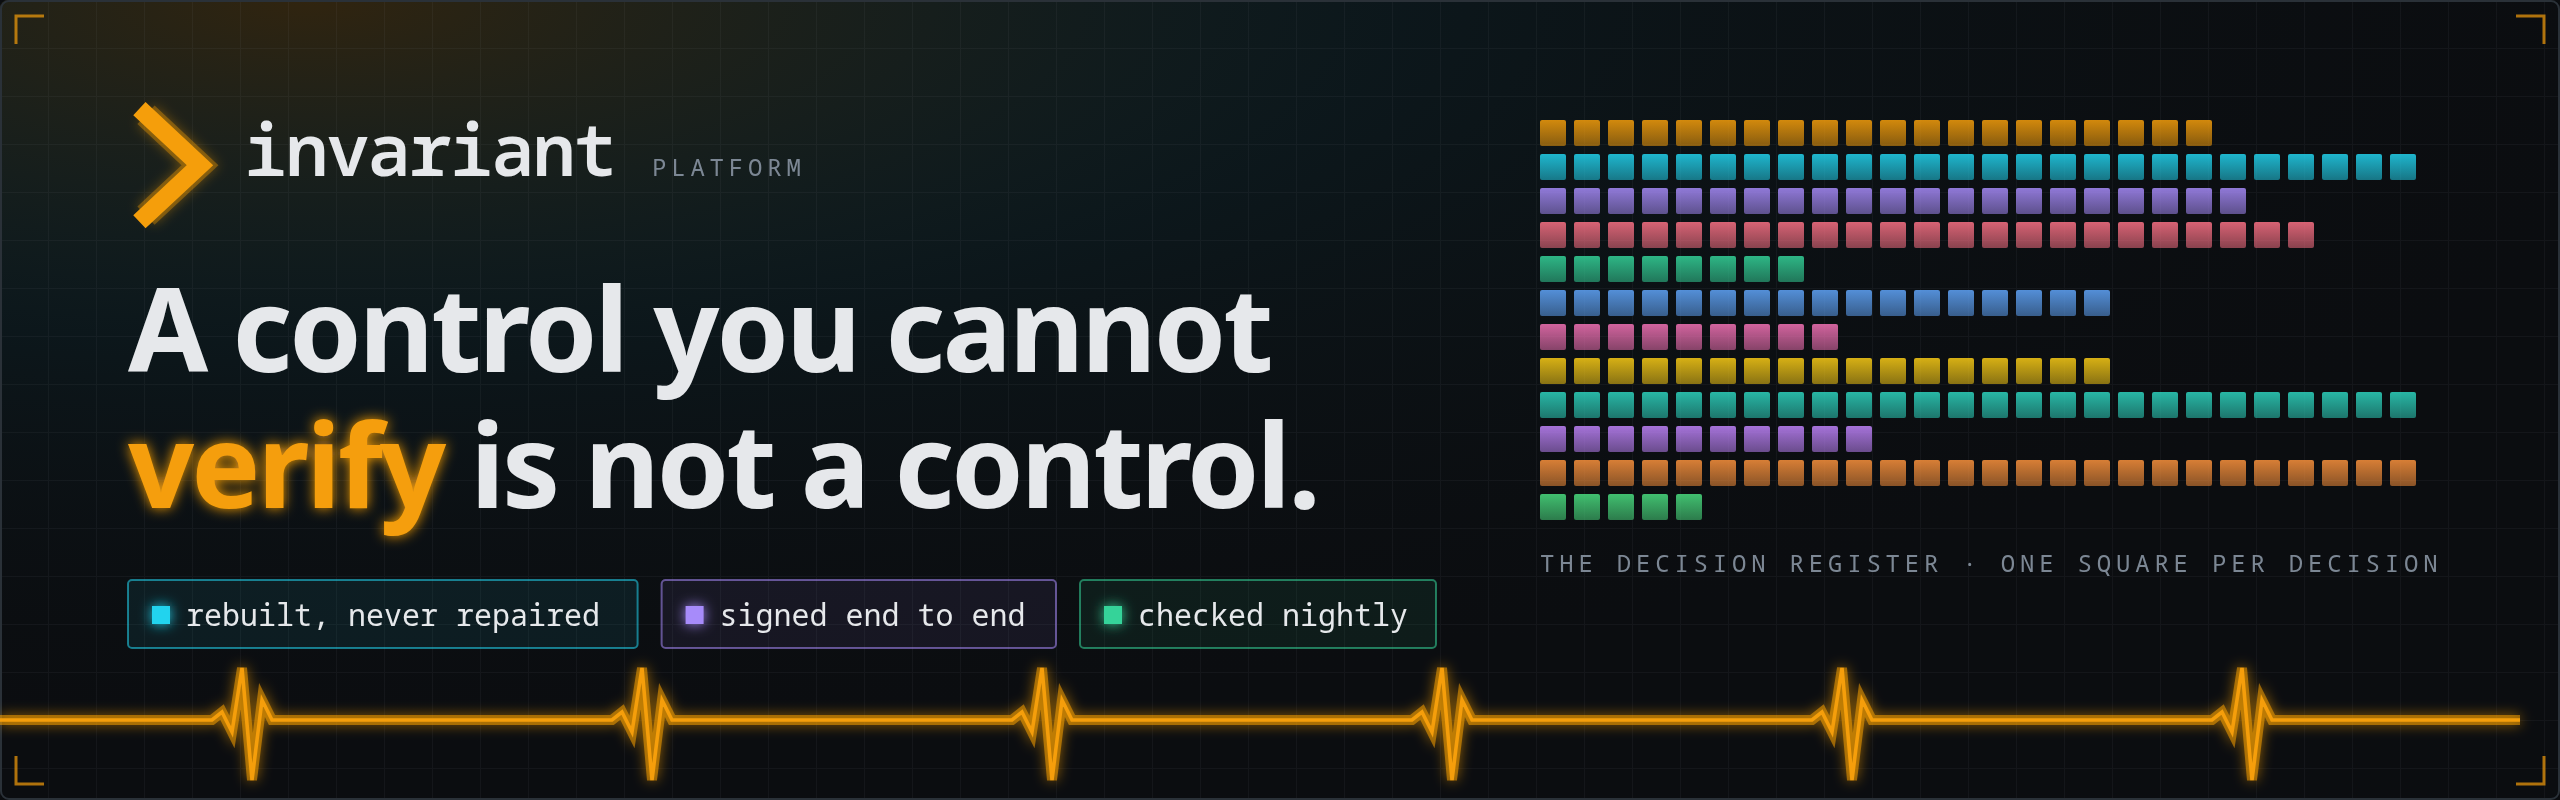
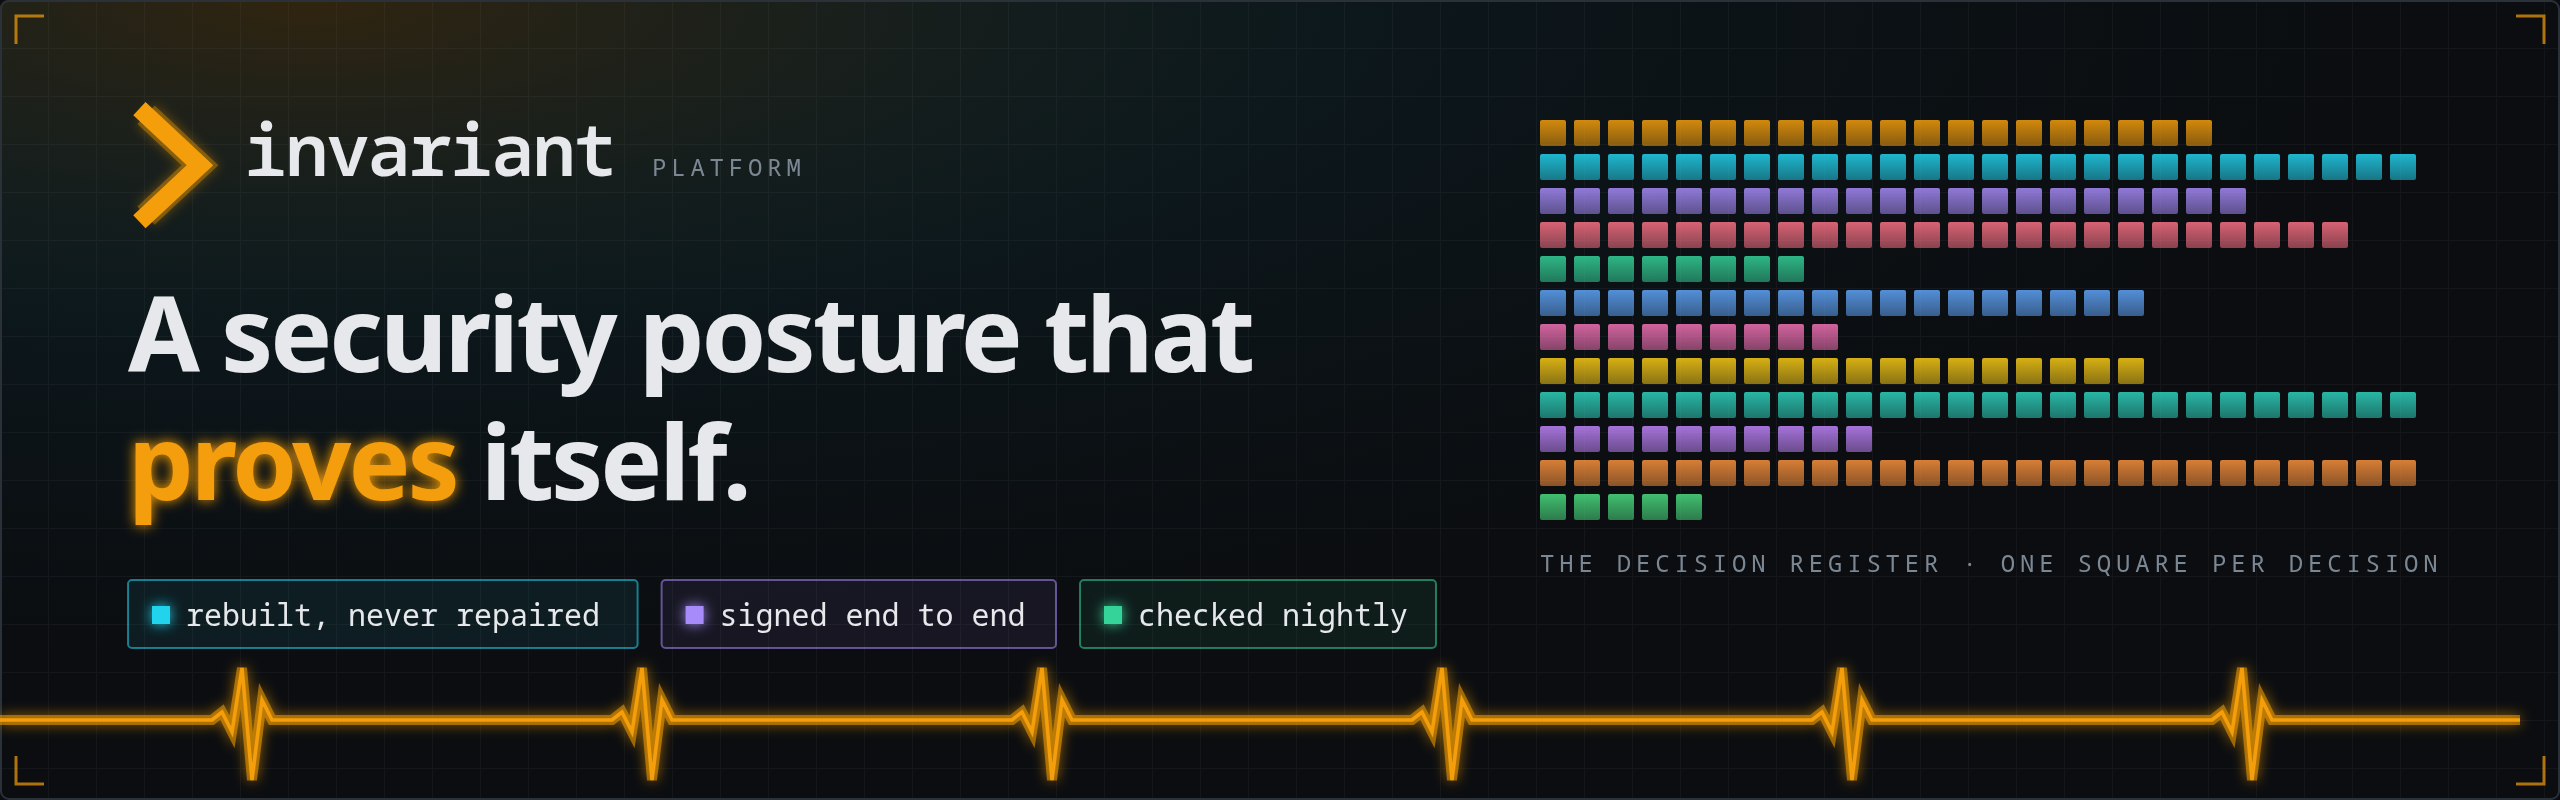
Profile: new headline and positioning, register from the site
Assisted-by: Claude Code

diff --git a/generate.py b/generate.py
@@ -3,8 +3,11 @@
     python3 generate.py          # writes profile/README.md and profile/assets/*.svg
 
 Standard library only. Every claim and number here is one the public site
-(invariant-platform.io) already makes; STATS and REGISTER are copied from its
-site.config.ts and must move with it. Nothing names a machine or an address.
+(invariant-platform.io) already makes. REGISTER is read from the site
+repository's content/register-shape.json (generated from the private index),
+and the decision total is its sum, so the two sites cannot disagree. There is
+no invariant count: only the live nightly run states one. Nothing names a
+machine or an address.
 
 The SVGs are shown by GitHub through <img>, so each one is self-contained:
 its own styles, no web fonts (system fallbacks), no script. Animations are
@@ -14,21 +17,21 @@ CSS, play once on load, and stop for readers who prefer reduced motion.
 from __future__ import annotations
 
 import html
+import json
 from pathlib import Path
 
 OUT = Path(__file__).resolve().parent / "profile"
 
 SITE = "https://invariant-platform.io"
-# From invariant-platform-site/site.config.ts (ADR-173: a number the platform
-# does not keep is a false claim). Update both together.
-STATS = [("210", "decisions", "numbered, never deleted"), ("19", "invariants", "re-asserted nightly"),
+# The register's shape, from the site repository (scripts/register-shape.mjs
+# there writes it). A missing file is an error, never a stale fallback.
+_SHAPE = Path(__file__).resolve().parent.parent / "invariant-platform-site" / "content" / "register-shape.json"
+REGISTER = [(c["name"], c["n"]) for c in json.loads(_SHAPE.read_text())]
+DECISION_COUNT = sum(n for _, n in REGISTER)
+# Kept by the platform and stated on the site (site.config.ts, ADR-173).
+STATS = [(str(DECISION_COUNT), "decisions", "numbered, never deleted"),
          ("7", "rebuilds", "from a declaration"), ("2", "restore drills", "passed, not assumed"),
          ("2", "failure domains", "and what survives each")]
-REGISTER = [("Topology and capacity", 20), ("Provisioning, roll and rebuild", 26), ("Networking and DNS", 21),
-            ("Security and admission", 23), ("Secrets and identity", 8), ("Supply chain and releases", 17),
-            ("GitOps and config delivery", 9), ("Storage, backup and disaster recovery", 17),
-            ("Observability and alerting", 26), ("Workloads and migrations", 10), ("Engineering practice", 26),
-            ("Site and funnel", 5)]
 # A real nightly run, finding included (content/home.ts postureRun).
 POSTURE = [
     ("ok", "pod security: 19/19 namespaces enforced"),
@@ -168,8 +171,8 @@ def hero() -> str:
          logo(64, 52, 0.9),
          f'<text x="122" y="88" class="mono" font-size="36" font-weight="600" letter-spacing="-1">invariant</text>',
          f'<text x="326" y="88" class="label" font-size="15">PLATFORM</text>',
-         f'<text x="64" y="186" font-size="58" font-weight="700" letter-spacing="-1.5">A control you cannot</text>',
-         f'<text x="64" y="254" font-size="58" font-weight="700" letter-spacing="-1.5"><tspan fill="{AMBER}" filter="url(#glow)">verify</tspan> is not a control.</text>']
+         f'<text x="64" y="186" font-size="52" font-weight="700" letter-spacing="-1.5">A security posture that</text>',
+         f'<text x="64" y="250" font-size="52" font-weight="700" letter-spacing="-1.5"><tspan fill="{AMBER}" filter="url(#glow)">proves</tspan> itself.</text>']
     cx = 64
     for label, hue in (("rebuilt, never repaired", 1), ("signed end to end", 2), ("checked nightly", 4)):
         wd = len(label) * 9.6 + 34
@@ -183,7 +186,7 @@ def hero() -> str:
             b.append(f'<rect x="{x0 + j * (cell + gap)}" y="{y0 + i * (cell + gap)}" width="{cell}" height="{cell}" rx="1" '
                      f'fill="url(#cell{i})" fill-opacity=".85" class="cell" style="animation-delay:{(i * 0.04 + j * 0.01):.2f}s"/>')
     b.append(f'<text x="{x0}" y="{y0 + len(REGISTER) * (cell + gap) + 22}" class="label">THE DECISION REGISTER · ONE SQUARE PER DECISION</text>')
-    return doc(w, h, "Invariant Platform: a control you cannot verify is not a control", "".join(b), style)
+    return doc(w, h, "Invariant Platform: a security posture that proves itself", "".join(b), style)
 
 
 RAW = "https://raw.githubusercontent.com/InvariantPlatform/.github/main/profile/assets"
@@ -198,7 +201,7 @@ def pic(name: str, alt: str) -> str:
 
 PILLARS = [
     ("Architecture", "architecture", "Every component is modelled before it exists. A component the model does not describe fails the build."),
-    ("Security posture", "security-posture", "Nineteen invariants, re-asserted nightly from outside the cluster. A failure pages; silence is a written-down gap."),
+    ("Security posture", "security-posture", "Every invariant, re-asserted nightly from outside the cluster. A failure pages; silence is a written-down gap."),
     ("Resiliency", "resiliency", "No repair path. Anything broken is destroyed and rebuilt from a declaration, and every rebuild is measured."),
     ("Observability", "observability", "Metrics, logs and alert rules live beside the cluster. A monitor inside the thing cannot report it gone."),
     ("Supply chain", "supply-chain", "Nothing reaches the cluster except a signed artifact from one named workflow. A push deploys nothing."),
@@ -215,11 +218,11 @@ STATS_TABLE = ("| " + " | ".join(f"**{n}**" for n, _, _ in STATS) + " |\n|"
 POSTURE_BLOCK = "\n".join(("+ ok    " if st == "ok" else "- FAIL  ") + line for st, line in POSTURE)
 PILLAR_ROWS = "\n".join(f"| **[{t}]({SITE}/{slug}/)** | {body} |" for t, slug, body in PILLARS)
 FLOW_STEPS = "\n".join(f"{i}. **{t}**: {sub}." for i, (t, sub) in enumerate(FLOW, 1))
-DECISIONS, CATEGORIES = STATS[0][0], "twelve"
+CATEGORIES = len(REGISTER)
 
 
 README = f"""<p align="center">
-  <a href="{SITE}">{pic('hero', 'Invariant Platform: a control you cannot verify is not a control.')}</a>
+  <a href="{SITE}">{pic('hero', 'Invariant Platform: a security posture that proves itself.')}</a>
 </p>
 
 <p align="center">
@@ -232,7 +235,7 @@ README = f"""<p align="center">
   <a href="{SITE}/join/"><b>Join</b></a>
 </p>
 
-A property asserted in a document is not a property until something outside the system checks it, on a schedule, and pages when it stops being true. Invariant Platform is a small, security-first Kubernetes platform built on that rule: every claim on the site is one it checks, every night, from outside itself, and its only repair is a rebuild from a declaration.
+Invariant Platform is a security-first Kubernetes platform that re-asserts its own security posture every night, from outside itself, and whose only repair is a rebuild from a declaration. Every property it claims is one it checks. The checks ask the cluster's own API and compare the answer with the declaration, not with a list of machines, so they ask the same questions of five nodes as of a thousand.
 
 {STATS_TABLE}
 
@@ -260,9 +263,9 @@ $ posture-check
 
 ## The whole story is free. It just isn't anonymous.
 
-Members get field notes from real incidents, the full decision register ({DECISIONS} decisions in {CATEGORIES} categories, every one numbered, none deleted), and how every check is enforced. Membership costs nothing: no seat count, no card, and leaving is one click.
+Members get a field note from a real incident every Thursday, the decision register ({DECISION_COUNT} decisions in {CATEGORIES} categories, every one numbered, none deleted, released a few each week), the architecture views, and read access to the platform's source. Membership costs nothing: no seat count, no card, and leaving is one click. It opens soon.
 
-**[Join the organization →]({SITE}/join/)**
+**[Membership →]({SITE}/join/)**
 
 <sub>Built and run by <a href="https://www.bradpenney.io">Brad Penney</a>.</sub>
 """

diff --git a/profile/README.md b/profile/README.md
@@ -1,5 +1,5 @@
 <p align="center">
-  <a href="https://invariant-platform.io"><picture><source srcset="https://raw.githubusercontent.com/InvariantPlatform/.github/main/profile/assets/hero.svg" type="image/svg+xml"><img src="https://raw.githubusercontent.com/InvariantPlatform/.github/main/profile/assets/hero.png" width="100%" alt="Invariant Platform: a control you cannot verify is not a control."></picture></a>
+  <a href="https://invariant-platform.io"><picture><source srcset="https://raw.githubusercontent.com/InvariantPlatform/.github/main/profile/assets/hero.svg" type="image/svg+xml"><img src="https://raw.githubusercontent.com/InvariantPlatform/.github/main/profile/assets/hero.png" width="100%" alt="Invariant Platform: a security posture that proves itself."></picture></a>
 </p>
 
 <p align="center">
@@ -12,11 +12,11 @@
   <a href="https://invariant-platform.io/join/"><b>Join</b></a>
 </p>
 
-A property asserted in a document is not a property until something outside the system checks it, on a schedule, and pages when it stops being true. Invariant Platform is a small, security-first Kubernetes platform built on that rule: every claim on the site is one it checks, every night, from outside itself, and its only repair is a rebuild from a declaration.
+Invariant Platform is a security-first Kubernetes platform that re-asserts its own security posture every night, from outside itself, and whose only repair is a rebuild from a declaration. Every property it claims is one it checks. The checks ask the cluster's own API and compare the answer with the declaration, not with a list of machines, so they ask the same questions of five nodes as of a thousand.
 
-| **210** | **19** | **7** | **2** | **2** |
-|:-:|:-:|:-:|:-:|:-:|
-| decisions<br><sub>numbered, never deleted</sub> | invariants<br><sub>re-asserted nightly</sub> | rebuilds<br><sub>from a declaration</sub> | restore drills<br><sub>passed, not assumed</sub> | failure domains<br><sub>and what survives each</sub> |
+| **211** | **7** | **2** | **2** |
+|:-:|:-:|:-:|:-:|
+| decisions<br><sub>numbered, never deleted</sub> | rebuilds<br><sub>from a declaration</sub> | restore drills<br><sub>passed, not assumed</sub> | failure domains<br><sub>and what survives each</sub> |
 
 ## Every night, from outside the cluster
 
@@ -41,7 +41,7 @@ $ posture-check
 | Property | How it is held |
 |---|---|
 | **[Architecture](https://invariant-platform.io/architecture/)** | Every component is modelled before it exists. A component the model does not describe fails the build. |
-| **[Security posture](https://invariant-platform.io/security-posture/)** | Nineteen invariants, re-asserted nightly from outside the cluster. A failure pages; silence is a written-down gap. |
+| **[Security posture](https://invariant-platform.io/security-posture/)** | Every invariant, re-asserted nightly from outside the cluster. A failure pages; silence is a written-down gap. |
 | **[Resiliency](https://invariant-platform.io/resiliency/)** | No repair path. Anything broken is destroyed and rebuilt from a declaration, and every rebuild is measured. |
 | **[Observability](https://invariant-platform.io/observability/)** | Metrics, logs and alert rules live beside the cluster. A monitor inside the thing cannot report it gone. |
 | **[Supply chain](https://invariant-platform.io/supply-chain/)** | Nothing reaches the cluster except a signed artifact from one named workflow. A push deploys nothing. |
@@ -58,8 +58,8 @@ $ posture-check
 
 ## The whole story is free. It just isn't anonymous.
 
-Members get field notes from real incidents, the full decision register (210 decisions in twelve categories, every one numbered, none deleted), and how every check is enforced. Membership costs nothing: no seat count, no card, and leaving is one click.
+Members get a field note from a real incident every Thursday, the decision register (211 decisions in 12 categories, every one numbered, none deleted, released a few each week), the architecture views, and read access to the platform's source. Membership costs nothing: no seat count, no card, and leaving is one click. It opens soon.
 
-**[Join the organization →](https://invariant-platform.io/join/)**
+**[Membership →](https://invariant-platform.io/join/)**
 
 <sub>Built and run by <a href="https://www.bradpenney.io">Brad Penney</a>.</sub>
